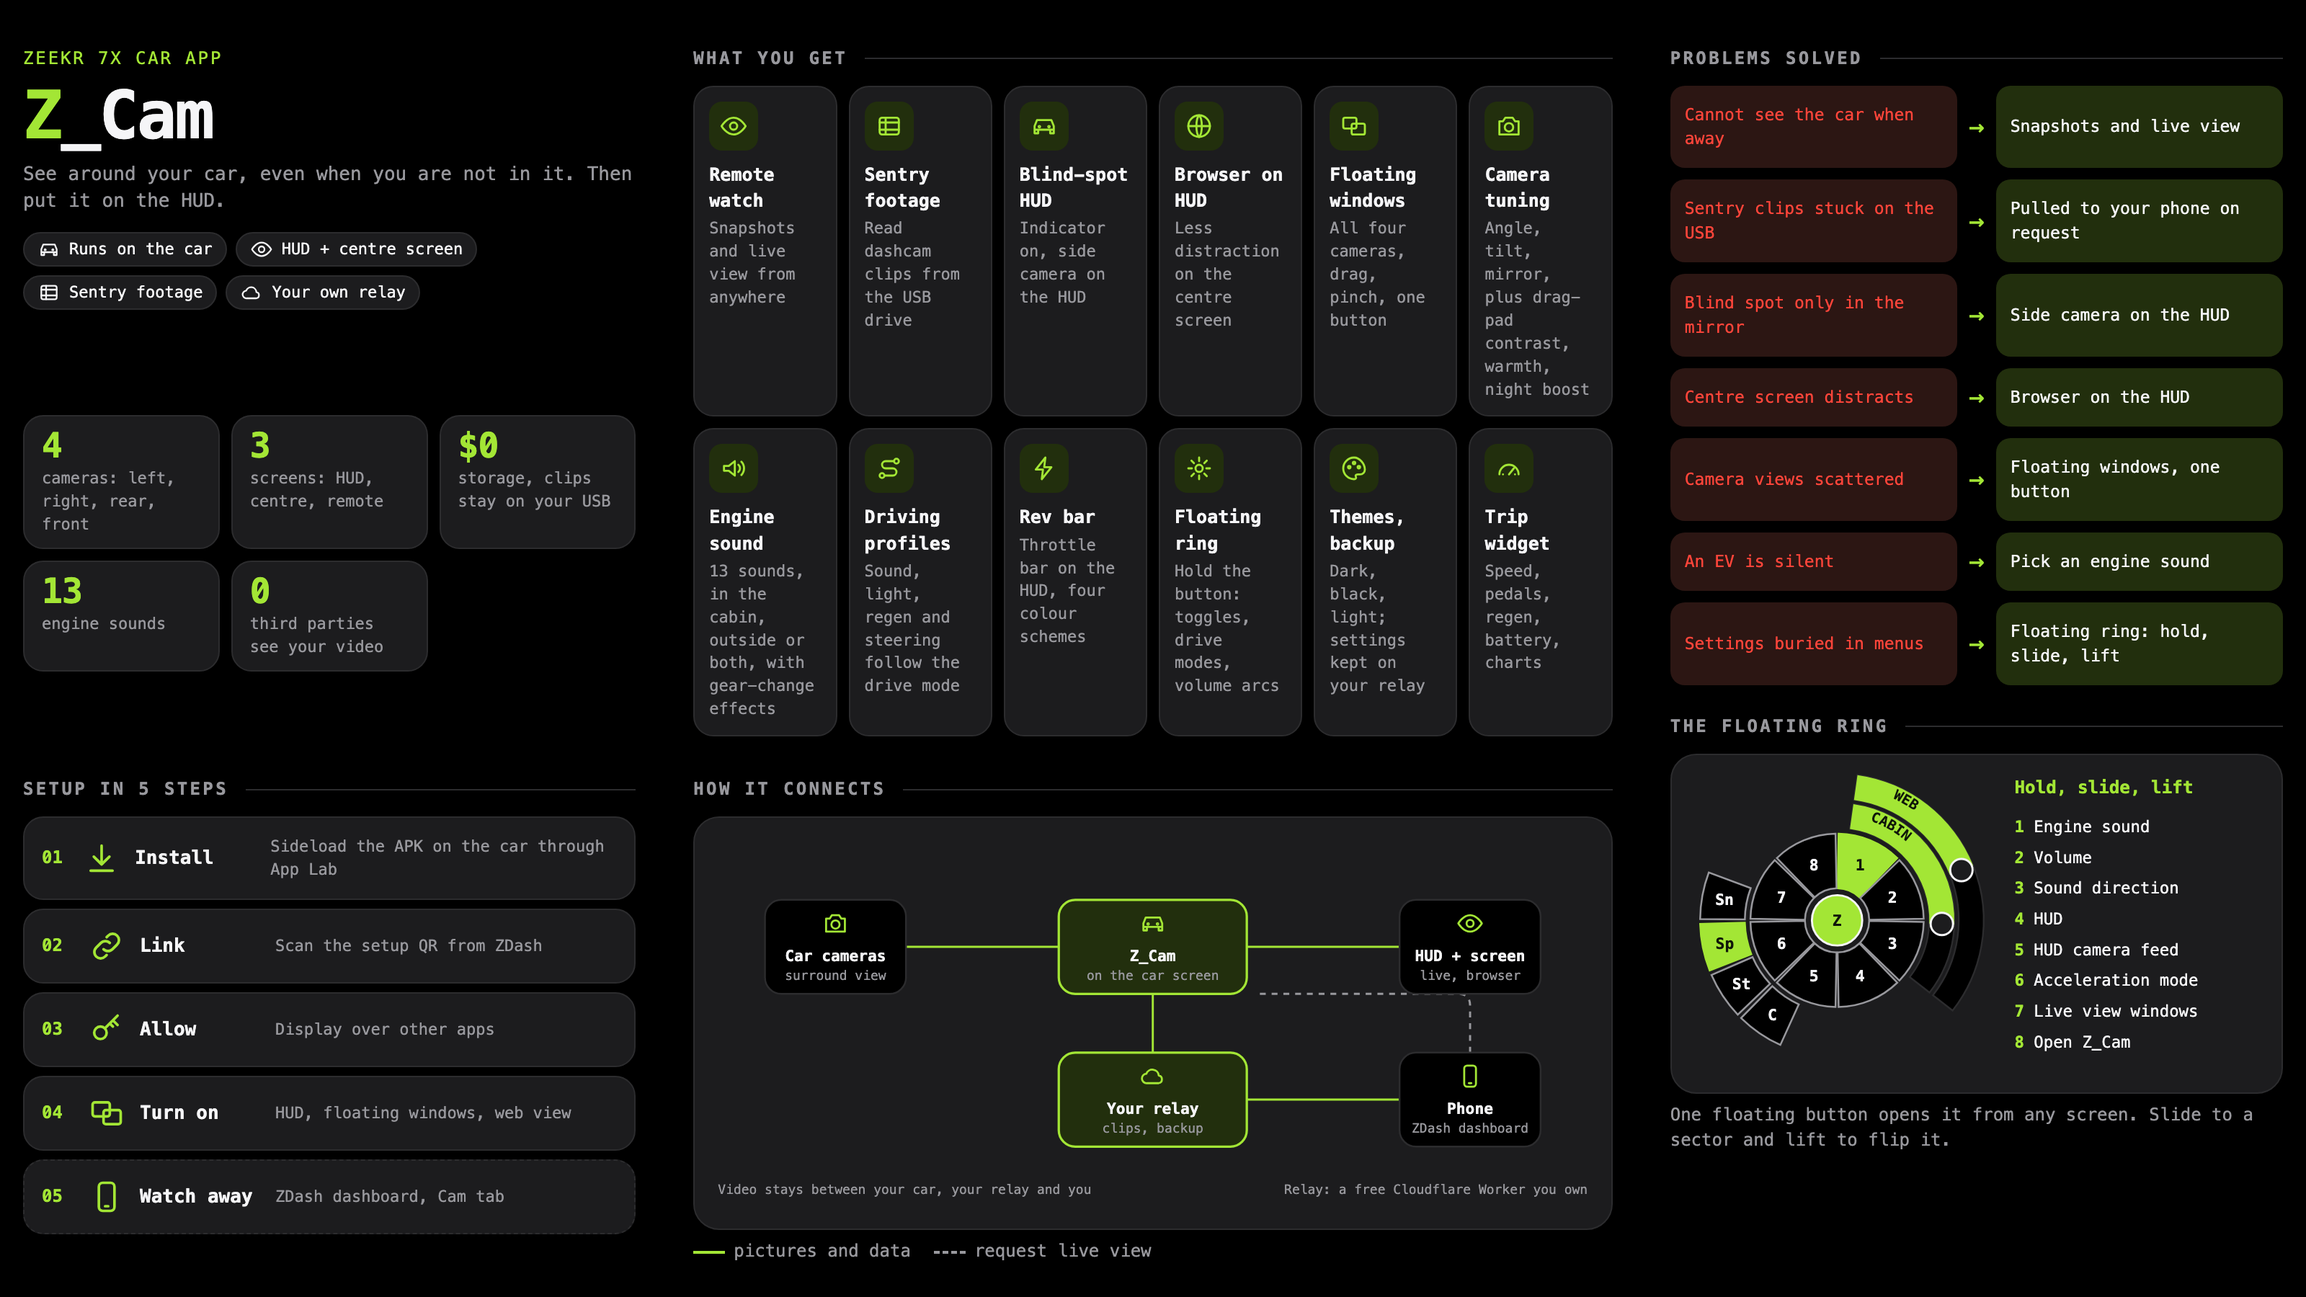
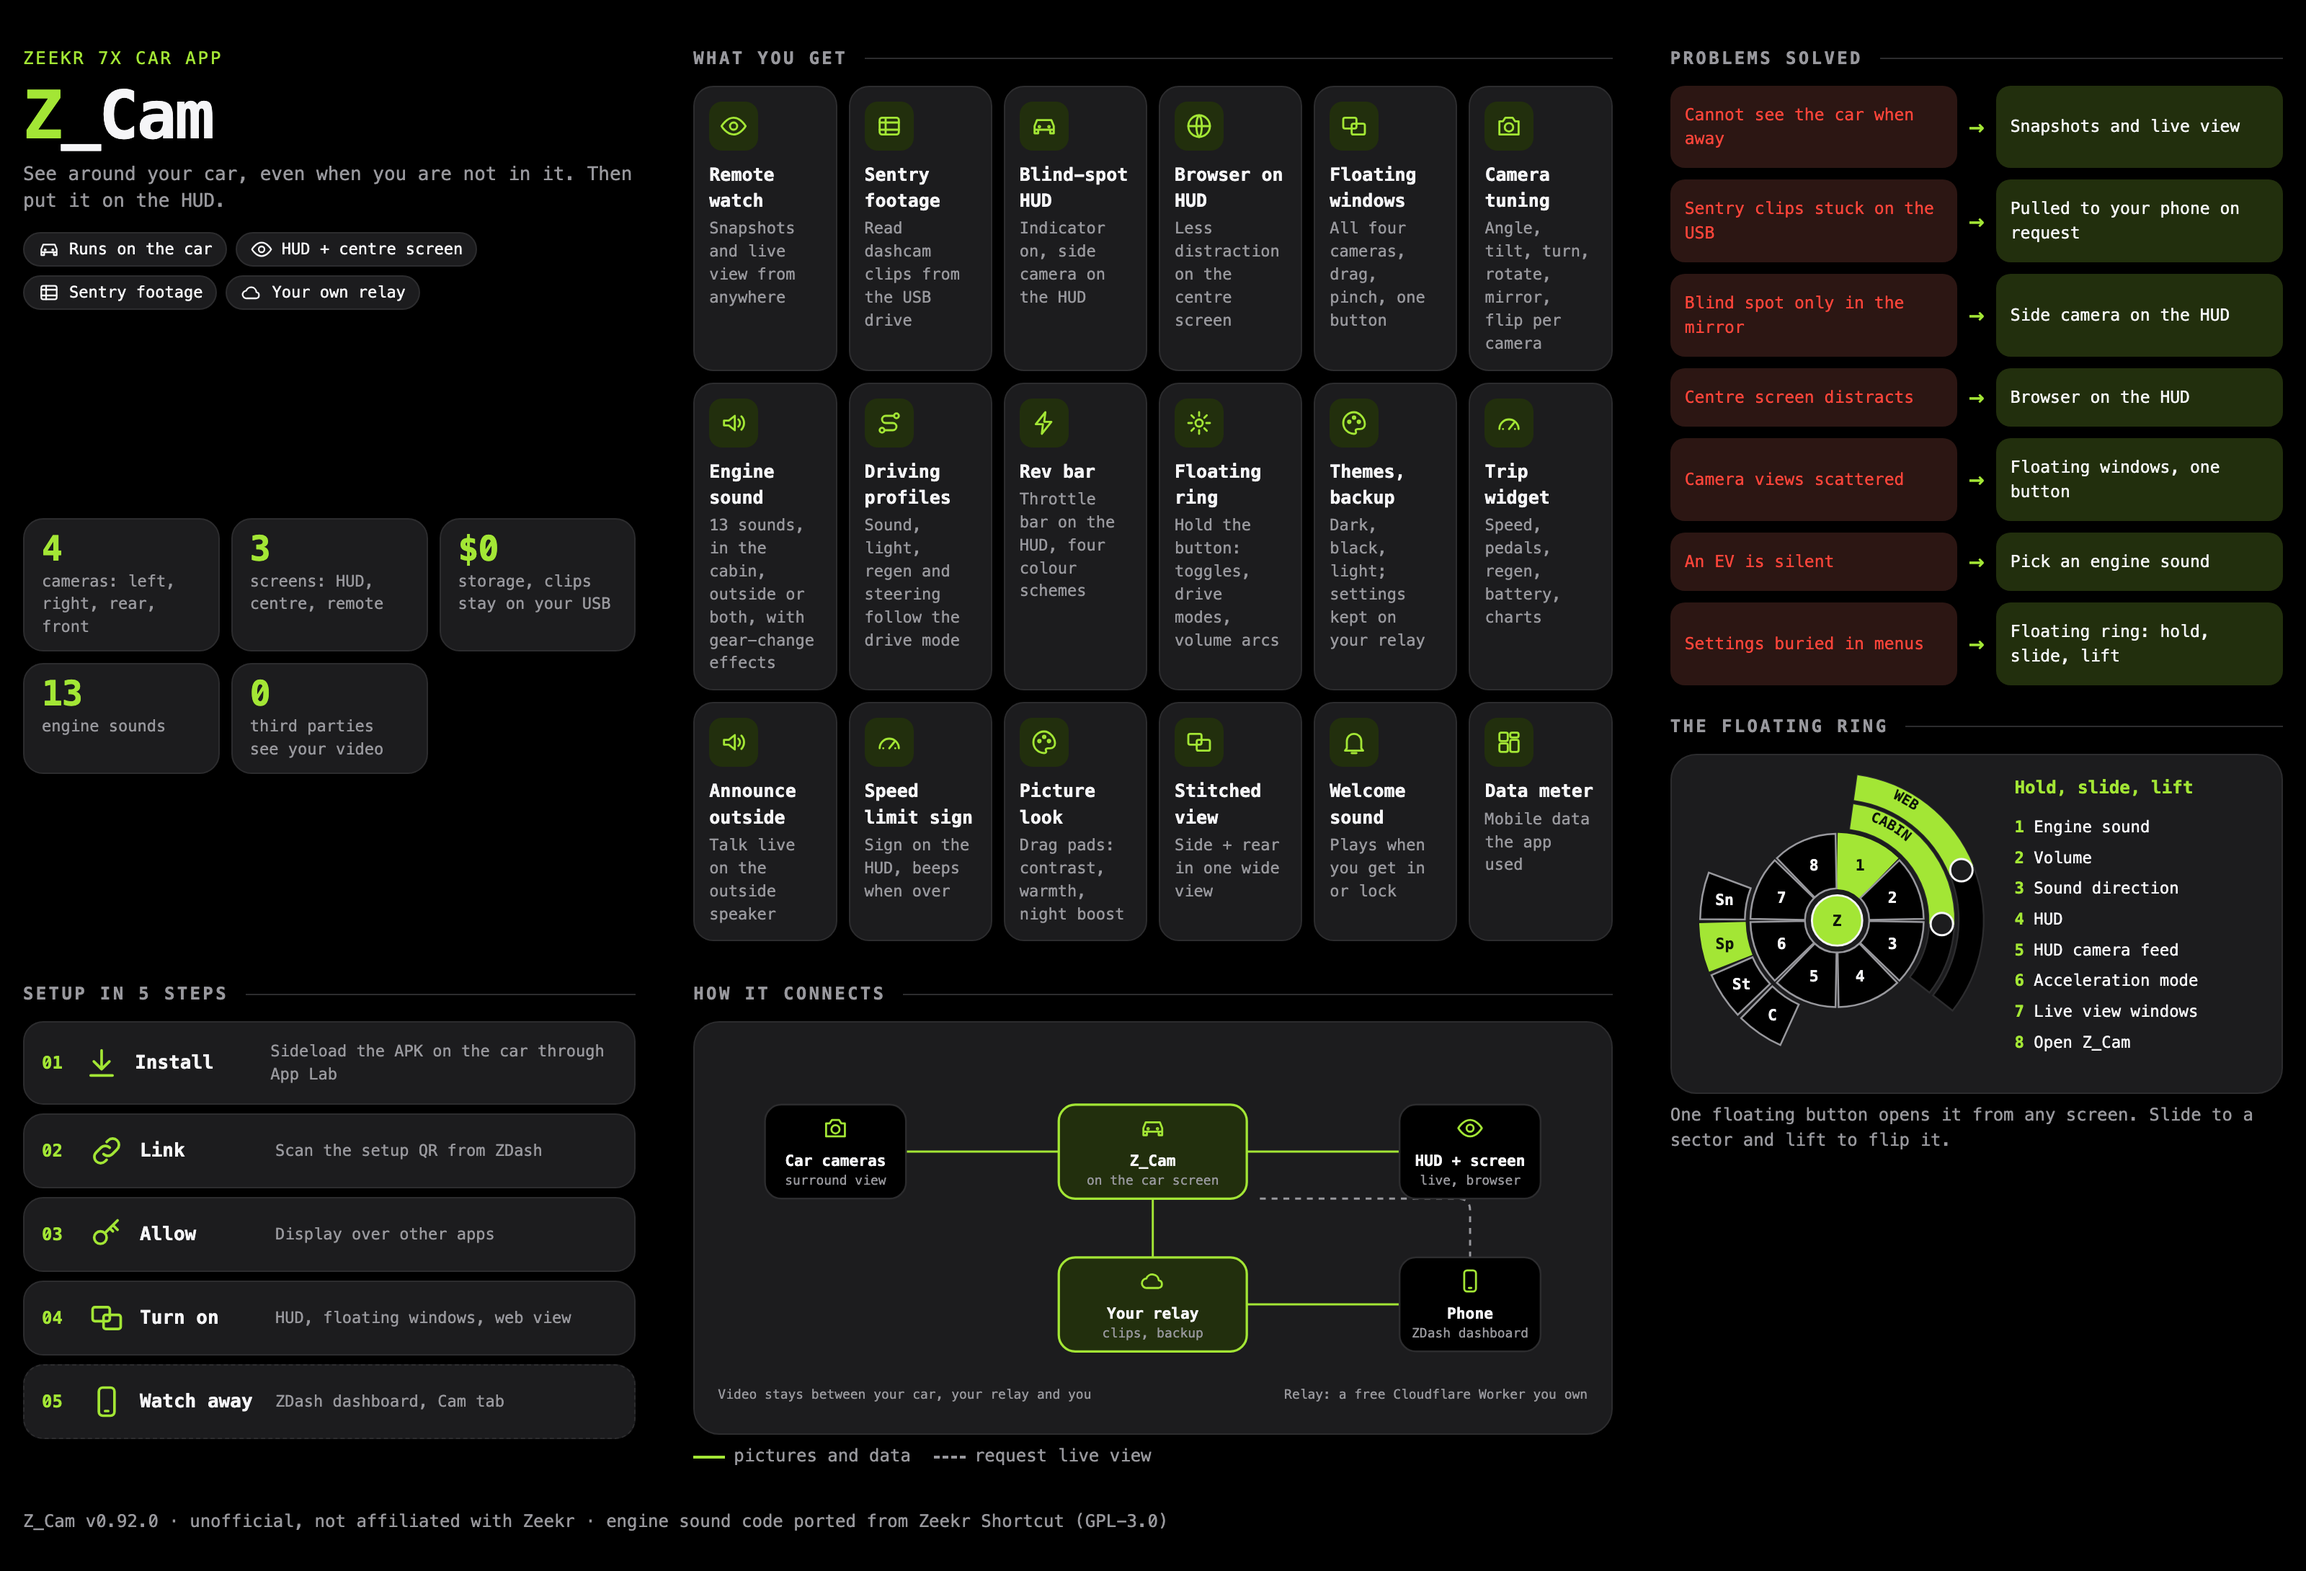
Z_Cam one-pager: add Announce outside, Speed limit sign, Picture look, Stitched view, Welcome sound, Data meter

diff --git a/docs/zcam-onepager.html b/docs/zcam-onepager.html
@@ -215,13 +215,19 @@ footer{color:var(--muted);font-size:12px;font-family:var(--mono)}
       <div class="tile"><div class="ic"><svg class="i"><use href="#car"/></svg></div><b>Blind-spot HUD</b><span>Indicator on, side camera on the HUD</span></div>
       <div class="tile"><div class="ic"><svg class="i"><use href="#globe"/></svg></div><b>Browser on HUD</b><span>Less distraction on the centre screen</span></div>
       <div class="tile"><div class="ic"><svg class="i"><use href="#windows"/></svg></div><b>Floating windows</b><span>All four cameras, drag, pinch, one button</span></div>
-      <div class="tile"><div class="ic"><svg class="i"><use href="#cam"/></svg></div><b>Camera tuning</b><span>Angle, tilt, mirror, plus drag-pad contrast, warmth, night boost</span></div>
+      <div class="tile"><div class="ic"><svg class="i"><use href="#cam"/></svg></div><b>Camera tuning</b><span>Angle, tilt, turn, rotate, mirror, flip per camera</span></div>
       <div class="tile"><div class="ic"><svg class="i"><use href="#sound"/></svg></div><b>Engine sound</b><span>13 sounds, in the cabin, outside or both, with gear-change effects</span></div>
       <div class="tile"><div class="ic"><svg class="i"><use href="#route"/></svg></div><b>Driving profiles</b><span>Sound, light, regen and steering follow the drive mode</span></div>
       <div class="tile"><div class="ic"><svg class="i"><use href="#bolt"/></svg></div><b>Rev bar</b><span>Throttle bar on the HUD, four colour schemes</span></div>
       <div class="tile"><div class="ic"><svg class="i"><use href="#auto"/></svg></div><b>Floating ring</b><span>Hold the button: toggles, drive modes, volume arcs</span></div>
       <div class="tile"><div class="ic"><svg class="i"><use href="#palette"/></svg></div><b>Themes, backup</b><span>Dark, black, light; settings kept on your relay</span></div>
       <div class="tile"><div class="ic"><svg class="i"><use href="#gauge"/></svg></div><b>Trip widget</b><span>Speed, pedals, regen, battery, charts</span></div>
+      <div class="tile"><div class="ic"><svg class="i"><use href="#sound"/></svg></div><b>Announce outside</b><span>Talk live on the outside speaker</span></div>
+      <div class="tile"><div class="ic"><svg class="i"><use href="#gauge"/></svg></div><b>Speed limit sign</b><span>Sign on the HUD, beeps when over</span></div>
+      <div class="tile"><div class="ic"><svg class="i"><use href="#palette"/></svg></div><b>Picture look</b><span>Drag pads: contrast, warmth, night boost</span></div>
+      <div class="tile"><div class="ic"><svg class="i"><use href="#windows"/></svg></div><b>Stitched view</b><span>Side + rear in one wide view</span></div>
+      <div class="tile"><div class="ic"><svg class="i"><use href="#bell"/></svg></div><b>Welcome sound</b><span>Plays when you get in or lock</span></div>
+      <div class="tile"><div class="ic"><svg class="i"><use href="#grid"/></svg></div><b>Data meter</b><span>Mobile data the app used</span></div>
     </div>
   </section>
 
